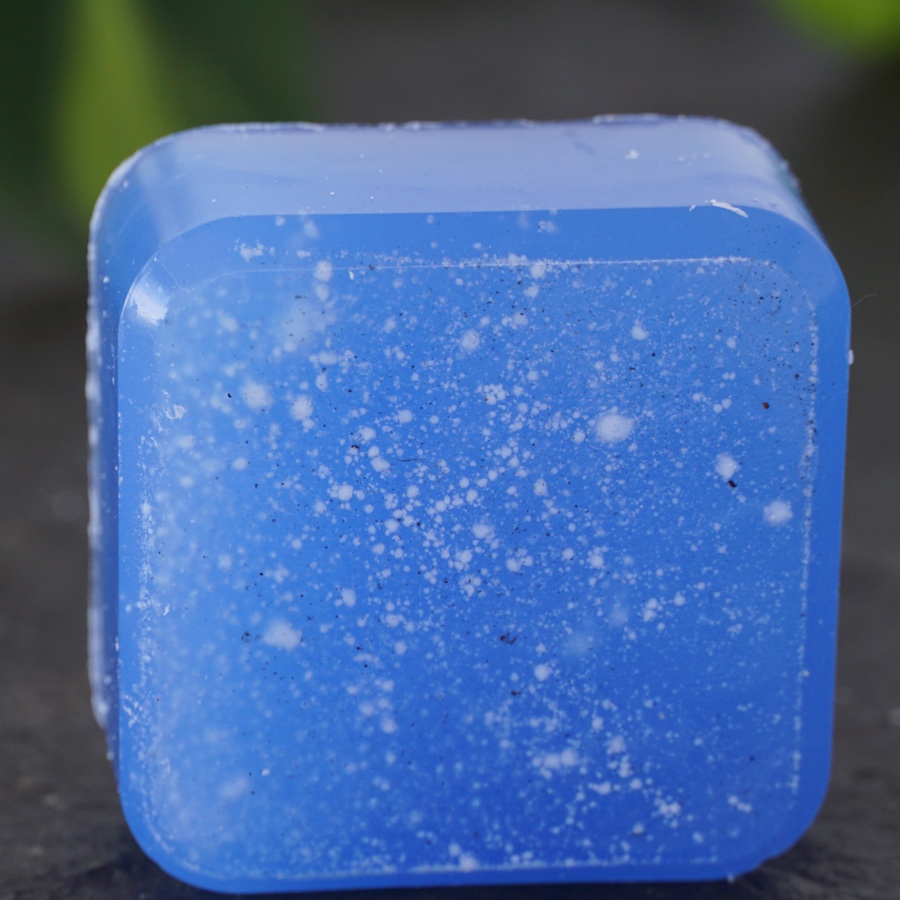
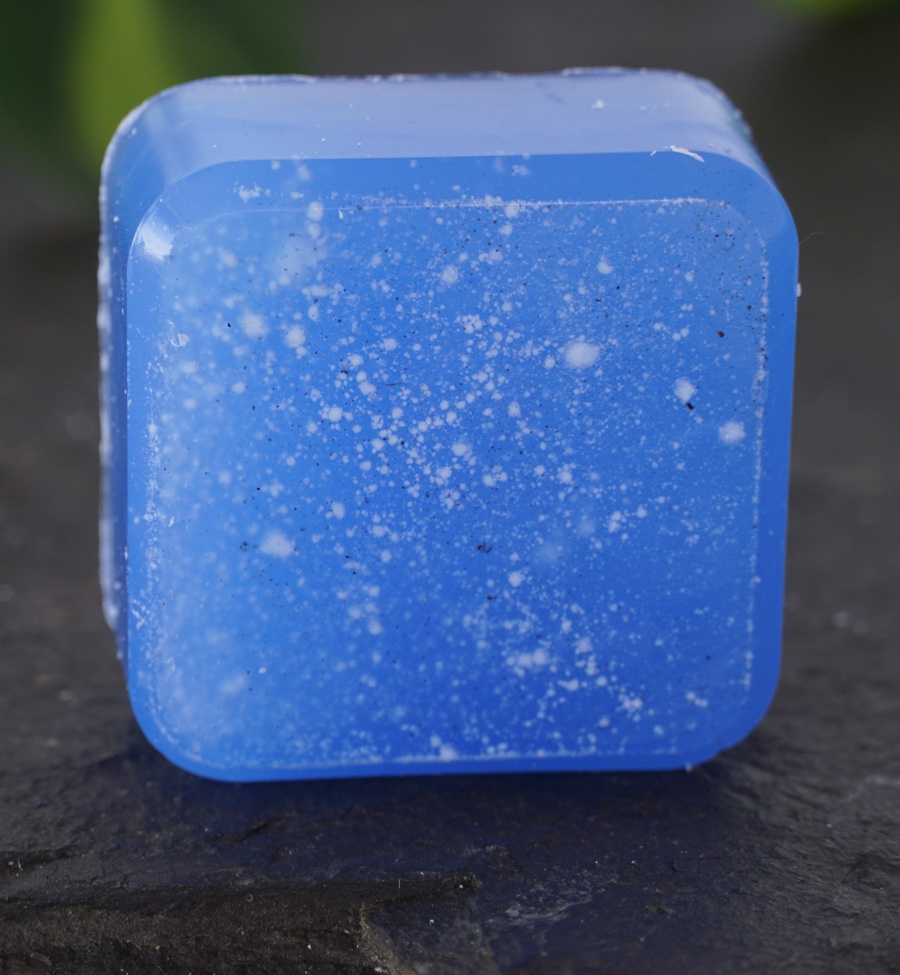
Hero polish: full wax-on-slate image, larger brand, better legibility
- Switch to user's preferred wax photo (Classic wax 6) showing full
  cube on dark slate — slate blends seamlessly into hero background
- Enlarge brand text to 11.5vw (70% viewport width), add dual-layer
  text shadow for depth
- Increase headline weight 600→700, bump font size for punchier feel
- Improve text legibility across all elements: eyebrow 0.50→0.58,
  body 0.58→0.65, stats labels 0.35→0.42, trust bar 0.38→0.45,
  "Blick ins Wachs" 0.40→0.48
- Larger wax border-radius (24-44px) with subtle blue accent glow
- Fix mobile brand text clipping (12vw→11.5vw min 2.5rem)

diff --git a/src/sections/hero-light.tsx b/src/sections/hero-light.tsx
@@ -217,11 +217,11 @@ export function Hero() {
               style={{
                 fontFamily: '"Libre Franklin", ui-sans-serif, system-ui, sans-serif',
                 fontWeight: 800,
-                fontSize: 'clamp(2.6rem, 10.5vw, 10.5rem)',
+                fontSize: 'clamp(2.5rem, 11.5vw, 12rem)',
                 lineHeight: 0.88,
-                letterSpacing: '-0.02em',
-                color: 'rgba(255,255,255,0.88)',
-                textShadow: '0 2px 40px rgba(0,0,0,0.3)',
+                letterSpacing: '-0.025em',
+                color: 'rgba(255,255,255,0.92)',
+                textShadow: '0 4px 60px rgba(0,0,0,0.35), 0 1px 3px rgba(0,0,0,0.2)',
               }}
             >
               {BRAND.map((ch, i) => (
@@ -244,14 +244,14 @@ export function Hero() {
           <div ref={cubeAnimRef} className="relative will-change-transform">
             <div className="relative overflow-hidden"
                  style={{
-                   borderRadius: 'clamp(20px, 3vw, 36px)',
-                   boxShadow: '0 50px 80px rgba(0,0,0,0.45), 0 20px 30px rgba(0,0,0,0.25), 0 0 0 1px rgba(255,255,255,0.06)',
+                   borderRadius: 'clamp(24px, 4vw, 44px)',
+                   boxShadow: '0 50px 80px rgba(0,0,0,0.50), 0 20px 30px rgba(0,0,0,0.30), 0 0 60px rgba(61,103,202,0.12), 0 0 0 1px rgba(255,255,255,0.08)',
                  }}>
               <img
                 src="/images/hero/wax-hero.jpg"
                 alt={de ? 'Waxcelerate Heißwachs-Block' : 'Waxcelerate hot wax block'}
                 className="block w-full h-auto"
-                style={{ aspectRatio: '1 / 1', objectFit: 'cover', objectPosition: 'center 40%' }}
+                style={{ aspectRatio: '12 / 13', objectFit: 'cover', objectPosition: 'center 35%' }}
                 fetchPriority="high"
               />
               {/* Subtle gloss overlay */}
@@ -293,15 +293,15 @@ export function Hero() {
               <div data-hero className="flex items-center gap-3.5 mb-5">
                 <span style={{ width: '28px', height: '2px', background: '#3D67CA' }} />
                 <p className="text-[10.5px] sm:text-[11.5px] uppercase font-semibold"
-                   style={{ letterSpacing: '0.28em', color: 'rgba(255,255,255,0.50)' }}>
+                   style={{ letterSpacing: '0.28em', color: 'rgba(255,255,255,0.58)' }}>
                   {t.hero.subtitle}
                 </p>
               </div>
 
               {/* Headline */}
               <h1 className="font-display" style={{
-                fontSize: 'clamp(2.6rem, 5.2vw, 4.8rem)', lineHeight: 0.96,
-                letterSpacing: '-0.028em', fontWeight: 600, color: '#fff',
+                fontSize: 'clamp(2.8rem, 5.5vw, 5rem)', lineHeight: 0.94,
+                letterSpacing: '-0.03em', fontWeight: 700, color: '#fff',
               }}>
                 <span className="block" style={{ paddingBottom: '0.06em' }}>
                   {t.hero.headline.split(' ').map((w, i) => (
@@ -324,7 +324,7 @@ export function Hero() {
 
               {/* Benefit line */}
               <p data-hero className="mt-5 max-w-[26rem] leading-[1.65]"
-                 style={{ fontSize: 'clamp(0.94rem, 1.35vw, 1.05rem)', color: 'rgba(255,255,255,0.58)' }}>
+                 style={{ fontSize: 'clamp(0.94rem, 1.35vw, 1.05rem)', color: 'rgba(255,255,255,0.65)' }}>
                 {t.hero.tagline}
               </p>
 
@@ -356,7 +356,7 @@ export function Hero() {
                 data-hero
                 onClick={() => setDiveOpen(true)}
                 className="group mt-5 inline-flex items-center gap-2 text-[12.5px] font-medium transition-opacity hover:opacity-80"
-                style={{ color: 'rgba(255,255,255,0.40)' }}
+                style={{ color: 'rgba(255,255,255,0.48)' }}
               >
                 <Search className="h-3.5 w-3.5" />
                 <span style={{ textDecoration: 'underline', textUnderlineOffset: '4px', textDecorationColor: 'rgba(61,103,202,0.5)' }}>
@@ -375,11 +375,11 @@ export function Hero() {
               <div className="flex items-center gap-3 order-2 sm:order-1">
                 <span style={{ color: '#4A7AE8', letterSpacing: '0.06em', fontSize: '12px' }}>★★★★★</span>
                 <span className="text-[8.5px] sm:text-[10.5px] uppercase"
-                      style={{ fontFamily: MONO, letterSpacing: '0.08em', color: 'rgba(255,255,255,0.38)' }}>
+                      style={{ fontFamily: MONO, letterSpacing: '0.08em', color: 'rgba(255,255,255,0.45)' }}>
                   200+ · {de ? '100 % positiv' : '100% positive'} · {de ? 'eBay-Käuferschutz' : 'eBay buyer protection'}
                 </span>
               </div>
-              <div className="flex items-stretch gap-1 order-1 sm:order-2">
+              <div className="flex items-stretch gap-0 order-1 sm:order-2">
                 {stats.map((s, i) => (
                   <div key={i} className="px-2.5 sm:px-7 first:pl-0 last:pr-0"
                        style={{ borderLeft: i > 0 ? '1px solid rgba(255,255,255,0.10)' : 'none' }}>
@@ -388,7 +388,7 @@ export function Hero() {
                       {s.v}
                     </p>
                     <p className="text-[8px] sm:text-[9.5px] uppercase mt-1.5 sm:mt-2 leading-tight max-w-[10ch] sm:max-w-none sm:whitespace-nowrap"
-                       style={{ fontFamily: MONO, letterSpacing: '0.06em', color: 'rgba(255,255,255,0.35)' }}>
+                       style={{ fontFamily: MONO, letterSpacing: '0.06em', color: 'rgba(255,255,255,0.42)' }}>
                       {s.l}
                     </p>
                   </div>
